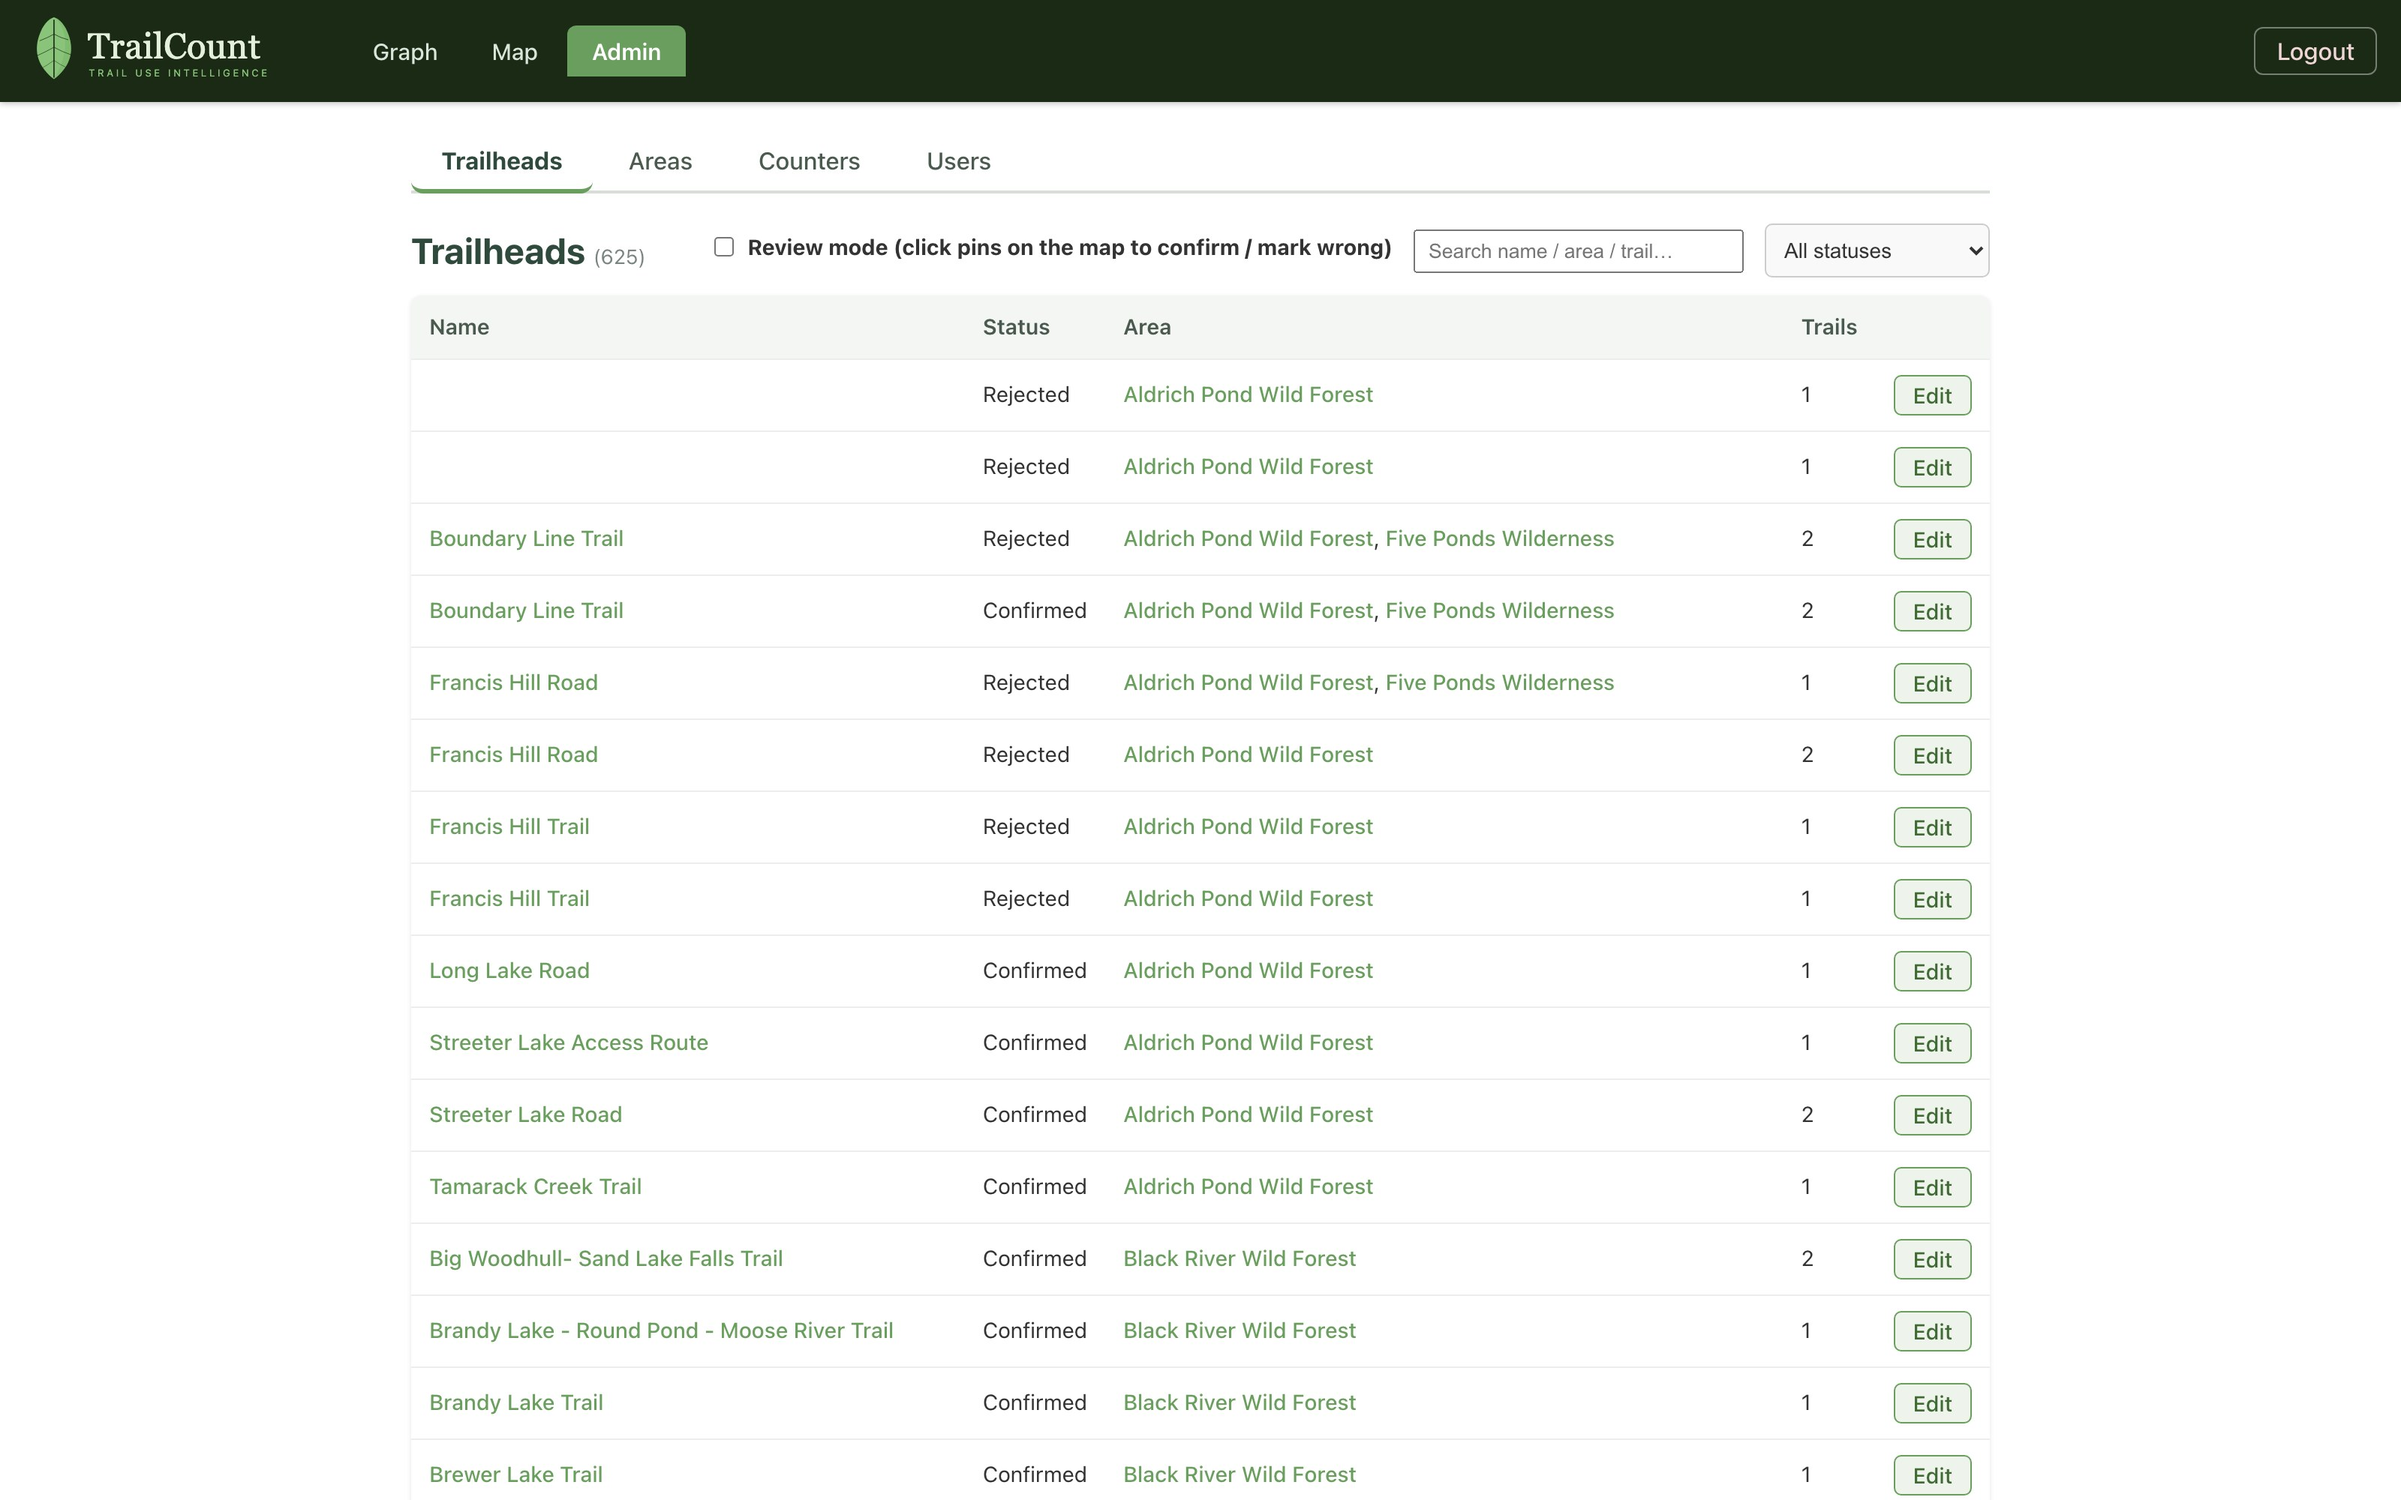
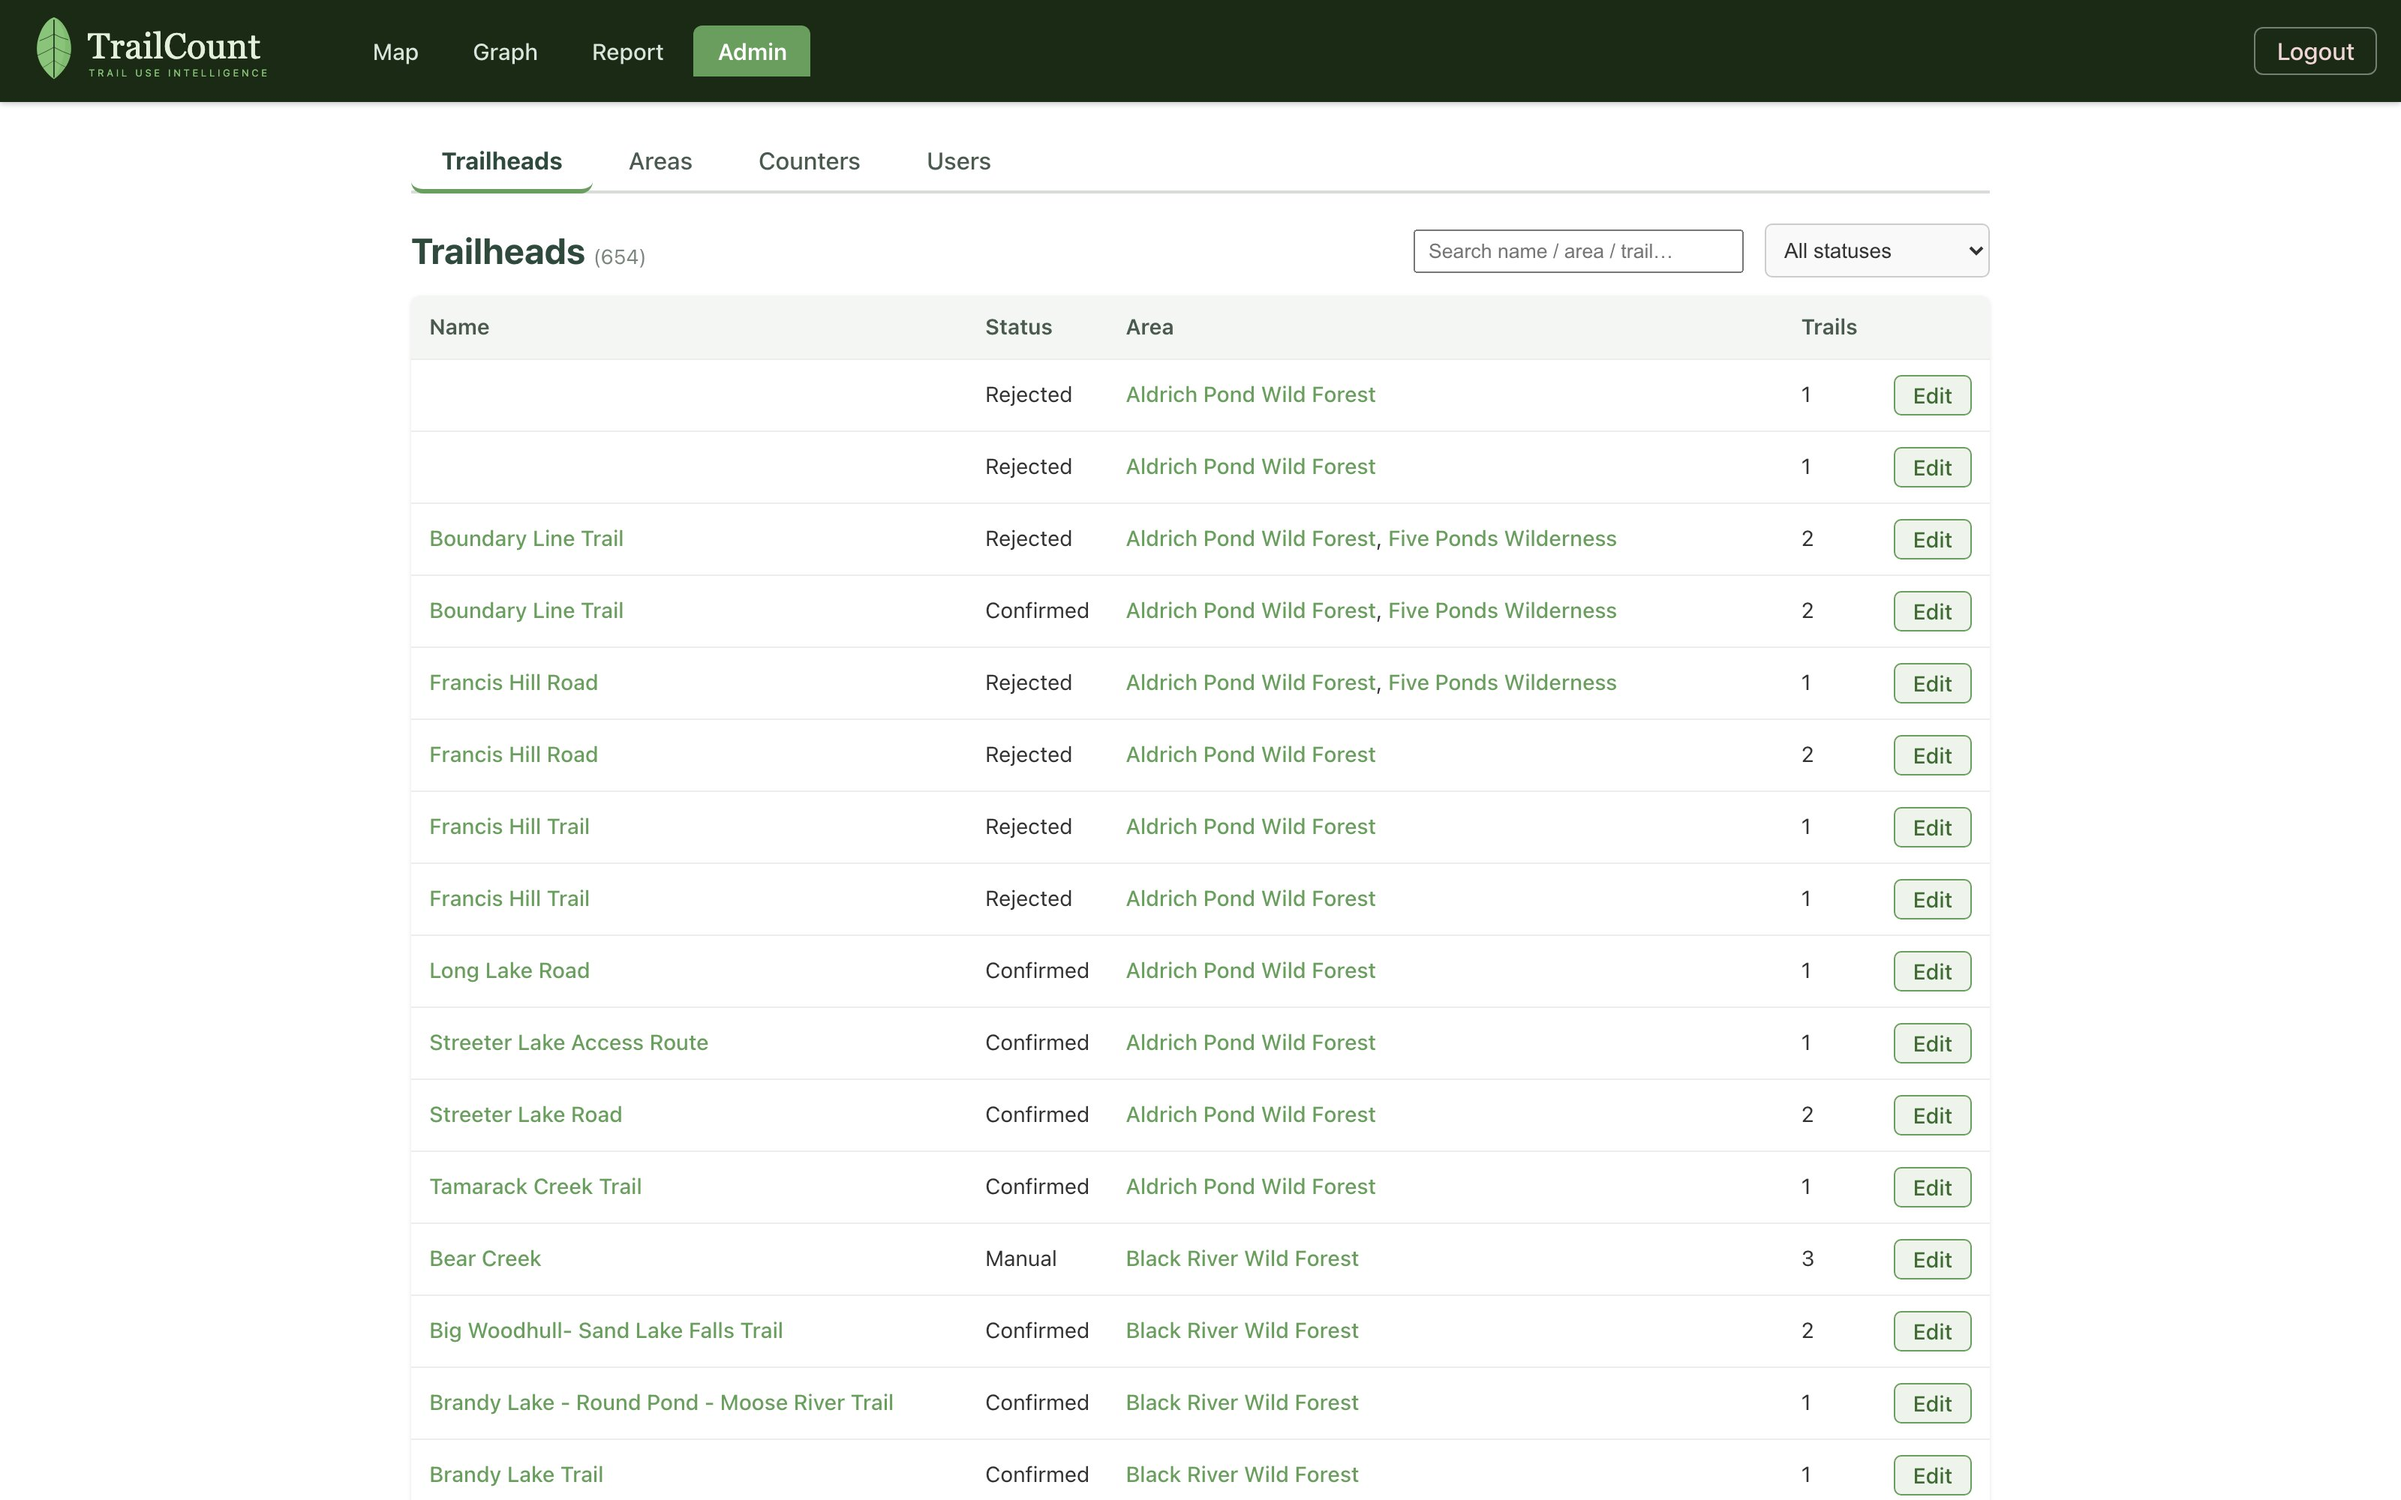
Tour: recapture the dashboard and add Report plus chart lenses.
The July screenshots and copy were a Graph/Map/Admin tour with a 52-week
default. The live app now has a Report tab, typical-pattern views, a 30-day
window, map layers, and unified deep links — walk through those, then
redeploy.

diff --git a/tour.html b/tour.html
@@ -152,13 +152,14 @@
           hiker counts daily since August 2026.
         </p>
         <div class="callouts">
-          <div class="callout"><b>Graph</b> Time-series analysis of any counter, trailhead, or whole wilderness area.</div>
           <div class="callout"><b>Map</b> The park in one view: state-land areas, trailheads, DEC trails, and a usage heat layer.</div>
+          <div class="callout"><b>Graph</b> Time-series and typical-pattern views of any counter, trailhead, or whole wilderness area.</div>
+          <div class="callout"><b>Report</b> The same selection as a sortable table, with CSV export.</div>
           <div class="callout"><b>Admin</b> Curate trailheads and areas, manage counters and dashboard users.</div>
         </div>
         <figure>
           <img src="tour/map-overview.jpg" alt="TrailCount map view of the Adirondack Park" loading="lazy" />
-          <figcaption>The map view on sign-in: Adirondack state lands colored by classification, ready to explore.</figcaption>
+          <figcaption>The map on sign-in: Adirondack state lands colored by classification, ready to explore.</figcaption>
         </figure>
         <p>
           Use the contents on the left, the arrows below, or your keyboard’s ← → keys to page through.
@@ -170,8 +171,9 @@
         <h1>Sign in and land on the map</h1>
         <p>
           Access is by invitation — an administrator creates your account (more on that in the Admin
-          chapter). Signing in drops you straight onto the map, framed to the whole park, with your
-          filter selections remembered per session as you move between views.
+          chapter). Signing in drops you onto the map, framed to the whole park, with your filter
+          selections remembered per session as you move between views. Password reset is self-serve
+          from the sign-in page.
         </p>
         <figure>
           <img src="tour/login.jpg" alt="TrailCount sign-in page" loading="lazy" />
@@ -183,15 +185,16 @@
         <div class="eyebrow">Shared controls</div>
         <h1>One filter panel, every view</h1>
         <p>
-          The left panel reads identically on the Graph and Map: a date range, the wilderness
+          The left panel reads identically on the Map, Graph, and Report: a date range, the wilderness
           <b>Areas</b> you care about, and the individual <b>Counters</b> within them. Below the
-          divider live the view-specific controls — grouping and combining on the Graph, the usage
-          heat controls on the Map.
+          divider live the view-specific controls — the <b>View</b> menu and grouping on Graph and
+          Report, the overlay layers and heat sliders on the Map.
         </p>
         <ul>
-          <li><b>Dates</b> default to the trailing 52 weeks, ending yesterday (today’s data hasn’t uploaded yet).</li>
+          <li><b>Dates</b> default to the last 30 days, ending yesterday (today’s data hasn’t uploaded yet).</li>
           <li><b>Areas</b> is a multi-select — pick several to compare them side by side.</li>
           <li><b>Counters</b> auto-fills with the selected areas’ counters; prune or search to focus.</li>
+          <li><b>View</b> (Graph and Report) switches among over-time, typical-hour, typical-weekday, seasonal, and week-over-week lenses.</li>
           <li>The footer shows the exact build you’re running — handy when confirming a fresh deploy.</li>
         </ul>
       </section>
@@ -208,9 +211,10 @@
         </p>
         <figure>
           <img src="tour/map-area.jpg" alt="High Peaks Wilderness selected on the map" loading="lazy" />
-          <figcaption>High Peaks Wilderness selected: boundary glow, DEC trails by blaze color, trailheads colored by 30-day traffic.</figcaption>
+          <figcaption>High Peaks Wilderness selected: boundary glow, DEC trails by type, trailheads colored by 30-day traffic.</figcaption>
         </figure>
         <ul>
+          <li>The <b>Layers</b> panel toggles state-land classifications, DEC parking lots, and trail-usage heat.</li>
           <li>Ten switchable basemaps (Esri topo by default) — terrain, satellite, USGS, and more.</li>
           <li>Select multiple areas and the view frames all of them together.</li>
           <li>Click any trailhead for its details — and a one-click jump to its graph.</li>
@@ -227,10 +231,11 @@
           and red; a quiet one is a thin yellow thread that ends at the first bend.
         </p>
         <figure>
-          <img src="tour/map-heat.jpg" alt="Usage heat corridors on the map" loading="lazy" />
-          <figcaption>Corridor heat: width, reach, and color all scale with each trailhead’s traffic.</figcaption>
+          <img src="tour/map-heat.jpg" alt="Usage heat corridors on the High Peaks map" loading="lazy" />
+          <figcaption>Corridor heat over High Peaks: width, reach, and color all scale with each trailhead’s traffic.</figcaption>
         </figure>
         <ul>
+          <li><b>Usage (absolute)</b> is yellow-to-red by traffic. <b>Vs median</b> is blue below / red above the typical trail.</li>
           <li><b>Width</b> and <b>Reach</b> set the busiest trailhead’s footprint; everything else scales beneath it.</li>
           <li>Curation is live — reject a trailhead or fix its trails and the heat updates instantly.</li>
         </ul>
@@ -240,18 +245,46 @@
         <div class="eyebrow">The numbers</div>
         <h1>From one counter to a whole wilderness</h1>
         <p>
-          The Graph plots hiker counts over any date range, grouped by hour up to year. Select a
-          whole area and it stays readable: the five busiest counters get their own lines and
-          everything else folds into a single “All others” series — with the busy lines painting
-          first while the long tail loads.
+          The Graph’s default <b>Over time</b> view plots hiker counts over any date range, grouped
+          by hour up to year. Select a whole area and it stays readable: the five busiest counters
+          get their own lines and everything else folds into a single “All others” series — with
+          the busy lines painting first while the long tail loads.
         </p>
         <figure>
           <img src="tour/graph-area.jpg" alt="Graph view for a wilderness area" loading="lazy" />
           <figcaption>An area’s year at a glance: top five counters plus the combined rest, weekly buckets.</figcaption>
         </figure>
         <ul>
+          <li>A marker at zero is a quiet day the counter called in. A gap is a day it did not.</li>
           <li>Pick individual counters for exact comparisons, or check <b>Combine trails</b> for one total line.</li>
-          <li>Grouping adapts to your range — from hourly detail to multi-year trends.</li>
+          <li><b>Group by</b> adapts to your range — day for a month, week for a year — and can always be overridden.</li>
+        </ul>
+      </section>
+
+      <section class="chapter" data-title="Typical patterns">
+        <div class="eyebrow">The shape of use</div>
+        <h1>When people go, not just how many</h1>
+        <p>
+          Over time is one lens. The <b>View</b> menu folds the same window into the shapes
+          stewards actually ask about — typical hour, typical weekday, the season’s curve —
+          averaged in Eastern Time and skipping days the counter did not call in, so downtime
+          never looks like a quiet trail.
+        </p>
+        <figure>
+          <img src="tour/graph-dow.jpg" alt="Day-of-week average for High Peaks Wilderness" loading="lazy" />
+          <figcaption>Day of week: High Peaks’ weekend signature, averaged across a year.</figcaption>
+        </figure>
+        <figure>
+          <img src="tour/graph-hod.jpg" alt="Hour-of-day average for High Peaks Wilderness" loading="lazy" />
+          <figcaption>Hour of day: arrivals peak in the early morning, then taper through the afternoon.</figcaption>
+        </figure>
+        <figure>
+          <img src="tour/graph-weeks.jpg" alt="Weeks compared for High Peaks Wilderness" loading="lazy" />
+          <figcaption>Weeks compared: each week of the window on a Sunday–Saturday axis, older weeks lighter.</figcaption>
+        </figure>
+        <ul>
+          <li><b>Day of year</b> and <b>Week of year</b> show the season’s shape — when it starts, peaks, and tapers.</li>
+          <li><b>Combine trails</b> still sums the selected counters first, then averages the combined series.</li>
         </ul>
       </section>
 
@@ -269,6 +302,21 @@
         </figure>
       </section>
 
+      <section class="chapter" data-title="Report">
+        <div class="eyebrow">The table twin</div>
+        <h1>Totals you can sort and export</h1>
+        <p>
+          Report is the Graph as a table, over the same dates, areas, and counters.
+          <b>Totals</b> is one row per trailhead for the window — sortable, with a grand total.
+          <b>By period</b> is one row per trailhead × bin, using the same grouping as the Graph.
+          <b>Export CSV</b> downloads exactly what’s on screen.
+        </p>
+        <figure>
+          <img src="tour/report-totals.jpg" alt="Report totals for High Peaks Wilderness" loading="lazy" />
+          <figcaption>Visitor totals for High Peaks, sorted by visits — ready to export.</figcaption>
+        </figure>
+      </section>
+
       <section class="chapter" data-title="Admin">
         <div class="eyebrow">Stewardship operations</div>
         <h1>Curate the catalog, manage the fleet</h1>
@@ -283,12 +331,13 @@
           <figcaption>The trailhead catalog: search, filter by review status, edit in place.</figcaption>
         </figure>
         <p>
-          The <b>Users</b> tab manages dashboard access itself: create accounts, and mark who is an
-          administrator. Only admins see this page — everyone else gets the Graph and Map, read-only.
+          The <b>Users</b> tab manages dashboard access itself: create accounts, grant or revoke
+          admin, and enable or disable a login without deleting it. Only admins see this page —
+          everyone else gets the Map, Graph, and Report, read-only.
         </p>
         <figure>
           <img src="tour/admin-users.jpg" alt="Admin users tab" loading="lazy" />
-          <figcaption>User management: provision accounts and grant or revoke admin in one click.</figcaption>
+          <figcaption>User management: provision accounts, grant admin, and enable or disable access.</figcaption>
         </figure>
       </section>
 
@@ -297,18 +346,19 @@
         <h1>Every view has an address</h1>
         <p>
           Areas and trailheads are linkable, so a finding can be handed to a colleague as a URL.
-          The map and graph link into each other, too — click a trailhead’s pin and jump straight
+          Map, Graph, and Report share the same query — click a trailhead’s pin and jump straight
           to its numbers.
         </p>
         <ul>
           <li><span class="url">/map?area=High Peaks Wilderness</span> — the map, framed to an area with its trails and trailheads shown.</li>
           <li><span class="url">/map?trailhead=&lt;id&gt;</span> — fly directly to one trailhead’s pin.</li>
           <li><span class="url">/dashboard?area=High Peaks Wilderness</span> — the graph, preloaded with an area’s counters.</li>
-          <li><span class="url">/dashboard?trail=&lt;id&gt;</span> — one counter’s series, ready to read.</li>
+          <li><span class="url">/dashboard?trailhead=&lt;id&gt;</span> — one trailhead’s series, ready to read.</li>
+          <li><span class="url">/report?area=High Peaks Wilderness</span> — the same selection as a table.</li>
         </ul>
         <figure>
           <img src="tour/map-popup.jpg" alt="Trailhead popup with a link to its graph" loading="lazy" />
-          <figcaption>A trailhead popup on the map — one click to its graph.</figcaption>
+          <figcaption>A trailhead popup on the map — recent visits, and one click to its graph.</figcaption>
         </figure>
         <p>
           That’s the tour. <a href="https://demo.trailcount.io" target="_blank" rel="noopener">Open the demo</a>

diff --git a/README.md b/README.md
@@ -8,6 +8,8 @@ tenant-agnostic. Replaces the original plan to host this on Squarespace.
 ```
 homepage/
 ├── index.html                       single-page site, inline CSS
+├── tour.html                        product tour of the dashboard
+├── tour/                            screenshots used by tour.html
 ├── trailcount-logo-primary.svg      hero logo (mirrored from branding/trailcount/)
 ├── trailcount-icon.svg              tab favicon SVG fallback
 ├── favicon.ico                      multi-resolution favicon
